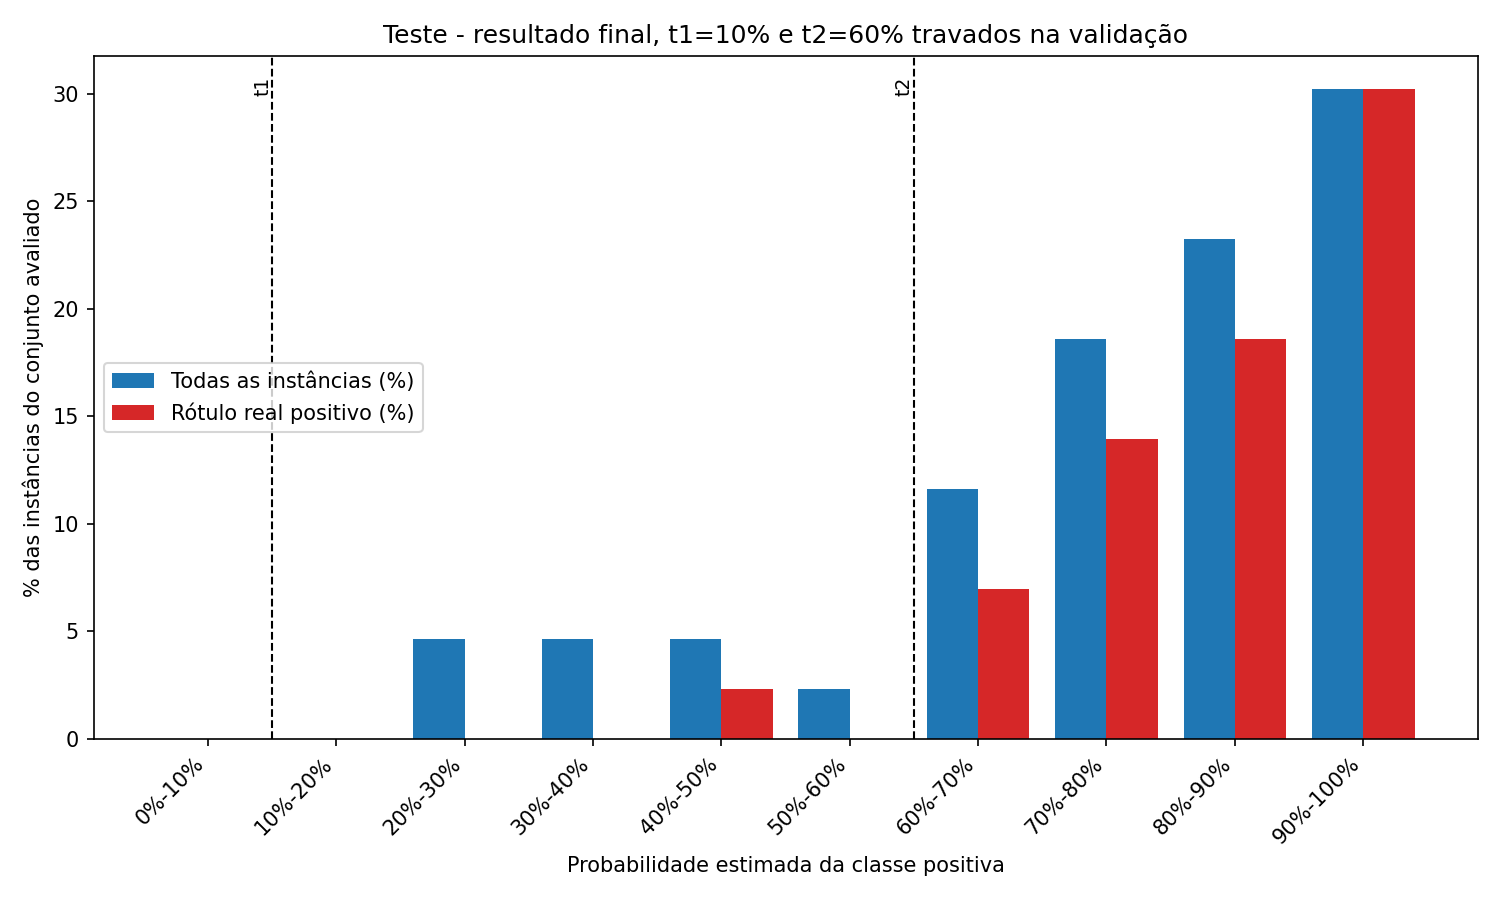
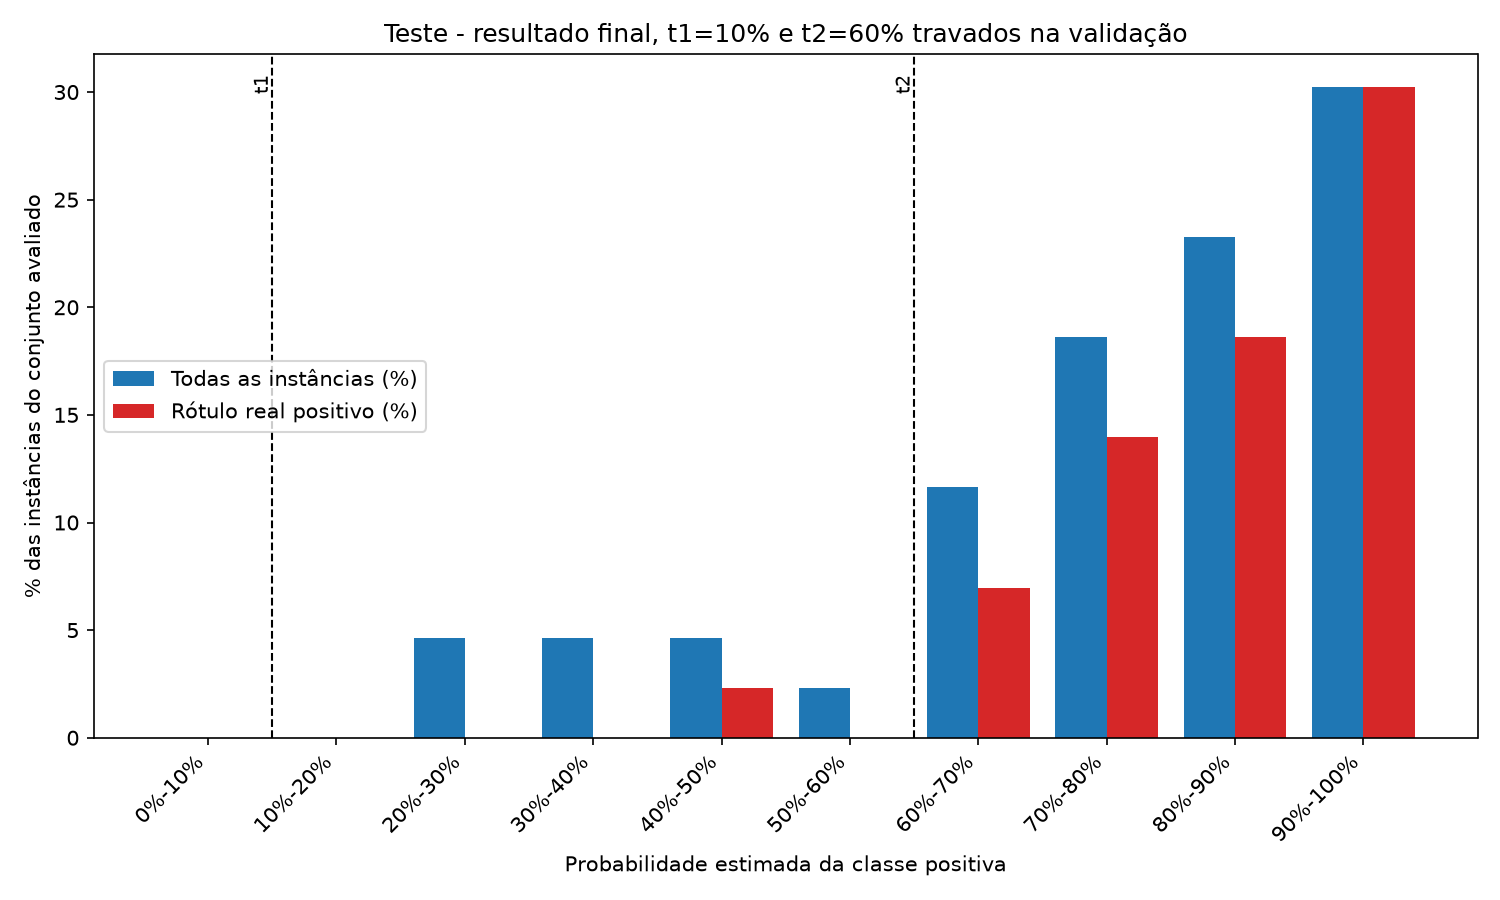
Atualiza as licenças

diff --git a/parte2_modelagem_relatorio/parkinson/aplicar_parte1_parkinson.py b/parte2_modelagem_relatorio/parkinson/aplicar_parte1_parkinson.py
@@ -1,24 +1,24 @@
-"""Aplica o programa da Parte 1 (plot_corte) ao melhor modelo do dominio Parkinson.
+"""Aplica o programa da Parte 1 (gerar_grafico_e_metricas) ao melhor modelo do dominio Parkinson.
 Entrada: resultados/probas_parkinson.npz gerado por pipeline_parkinson.py
   - validacao: probabilidades fora da amostra (CV agrupada) no conjunto de desenvolvimento -> escolha de t1/t2
   - teste: probabilidades do modelo final no conjunto reservado -> avaliacao com t1/t2 travados
 """
 import json, os, sys, numpy as np
 sys.path.insert(0, os.path.join(os.path.dirname(os.path.abspath(__file__)), '..', '..', 'parte1_grafico_pontos_corte'))
-from histograma_grafico_e_faixas import plot_corte
+from histograma_grafico_e_faixas import gerar_grafico_e_metricas
 R = 'resultados/'
 os.makedirs(R + 'figuras_parte1', exist_ok=True)
 d = np.load(R + 'probas_parkinson.npz')
 # 1) Validacao: histograma/tabela por faixa para ESCOLHER t1 e t2
-fig_v, ax_v, tab_v, _ = plot_corte(d['y_val'], d['p_val'], bin_width=10)
+fig_v, ax_v, tab_v, _ = gerar_grafico_e_metricas(d['y_val'], d['p_val'], bin_width=10)
 ax_v.set_title('Validação (probabilidades fora da amostra) - usada só para escolher t1/t2')
 fig_v.savefig(R + 'figuras_parte1/parkinson_validacao_escolha_corte.png', dpi=150)
 print(tab_v.round(1).to_string(index=False))
 # 2) Cortes escolhidos na validacao (em %), travados antes de olhar o teste
 T1, T2 = 10, 60
-_, _, tab_vc, met_v = plot_corte(d['y_val'], d['p_val'], bin_width=10, t1=T1, t2=T2)
+_, _, tab_vc, met_v = gerar_grafico_e_metricas(d['y_val'], d['p_val'], bin_width=10, t1=T1, t2=T2)
 # 3) Teste: resultado final
-fig_t, ax_t, tab_t, met_t = plot_corte(d['y_test'], d['p_test'], bin_width=10, t1=T1, t2=T2)
+fig_t, ax_t, tab_t, met_t = gerar_grafico_e_metricas(d['y_test'], d['p_test'], bin_width=10, t1=T1, t2=T2)
 ax_t.set_title(f'Teste - resultado final, t1={T1}% e t2={T2}% travados na validação')
 fig_t.savefig(R + 'figuras_parte1/parkinson_teste_resultado_final.png', dpi=150)
 print(tab_t.round(1).to_string(index=False))

diff --git a/parte2_modelagem_relatorio/data/base3_phishing_websites/FONTE_LICENCA.MD b/parte2_modelagem_relatorio/data/base3_phishing_websites/FONTE_LICENCA.MD
@@ -1,4 +1,6 @@
 Licença: CC BY 4.0
-DOI: 10.24432/C51S3W
-Mohammad, R. & McCluskey, L. (2012). Phishing Websites [Dataset]. UCI Machine Learning Repository. https://doi.org/10.24432/C51W2X.
-Alvo: Result
+DOI: 10.24432/C51W2X
+Citação: Mohammad, R. & McCluskey, L. (2012). Phishing Websites [Dataset]. UCI Machine Learning Repository. https://doi.org/10.24432/C51W2X.
+Fonte: https://archive.ics.uci.edu/dataset/327/phishing+websites
+Artigo de referência: Mohammad, R.; Thabtah, F.; McCluskey, L. An assessment of features related to phishing websites using an automated technique. International Conference for Internet Technology and Secured Transactions, 2012.
+Alvo: Result (recodificada: target = Result == -1)

diff --git a/parte2_modelagem_relatorio/data/base1_reviews/FONTE_LICENCA.MD b/parte2_modelagem_relatorio/data/base1_reviews/FONTE_LICENCA.MD
@@ -1,4 +1,6 @@
 Licença: CC BY 4.0
-DOI: 10.24432/C5CW2D
-Kotzias, D. (2015). Sentiment Labelled Sentences [Dataset]. UCI Machine Learning Repository. https://doi.org/10.24432/C57604.
+DOI: 10.24432/C57604
+Citação: Kotzias, D. (2015). Sentiment Labelled Sentences [Dataset]. UCI Machine Learning Repository. https://doi.org/10.24432/C57604.
+Fonte: https://archive.ics.uci.edu/dataset/331/sentiment+labelled+sentences
+Artigo de referência (a UCI pede que seja citado): Kotzias, D.; Denil, M.; de Freitas, N.; Smyth, P. From Group to Individual Labels Using Deep Features. KDD 2015.
 Alvo: class

diff --git a/parte2_modelagem_relatorio/data/base2_parkinson/FONTE_LICENCA.MD b/parte2_modelagem_relatorio/data/base2_parkinson/FONTE_LICENCA.MD
@@ -1,4 +1,6 @@
 Licença: CC BY 4.0
 DOI: 10.24432/C59C74
 Citação: Little, M. (2007). Parkinsons [Dataset]. UCI Machine Learning Repository. https://doi.org/10.24432/C59C74.
+Fonte: https://archive.ics.uci.edu/dataset/174/parkinsons
+Artigo de referência (a UCI pede que seja citado): Little, M. A.; McSharry, P. E.; Hunter, E. J.; Ramig, L. O. (2008). Suitability of dysphonia measurements for telemonitoring of Parkinson's disease. IEEE Transactions on Biomedical Engineering.
 Alvo: status
